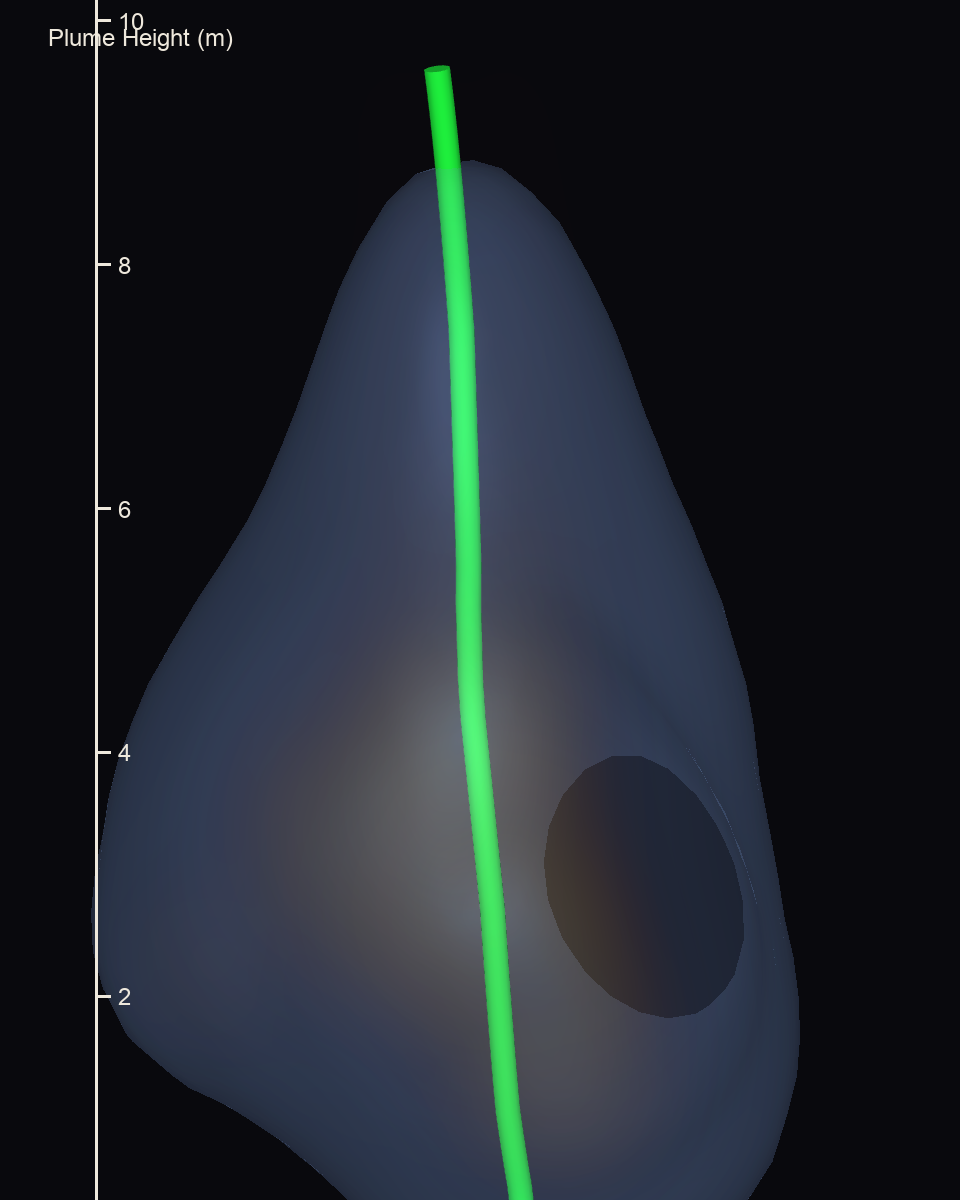
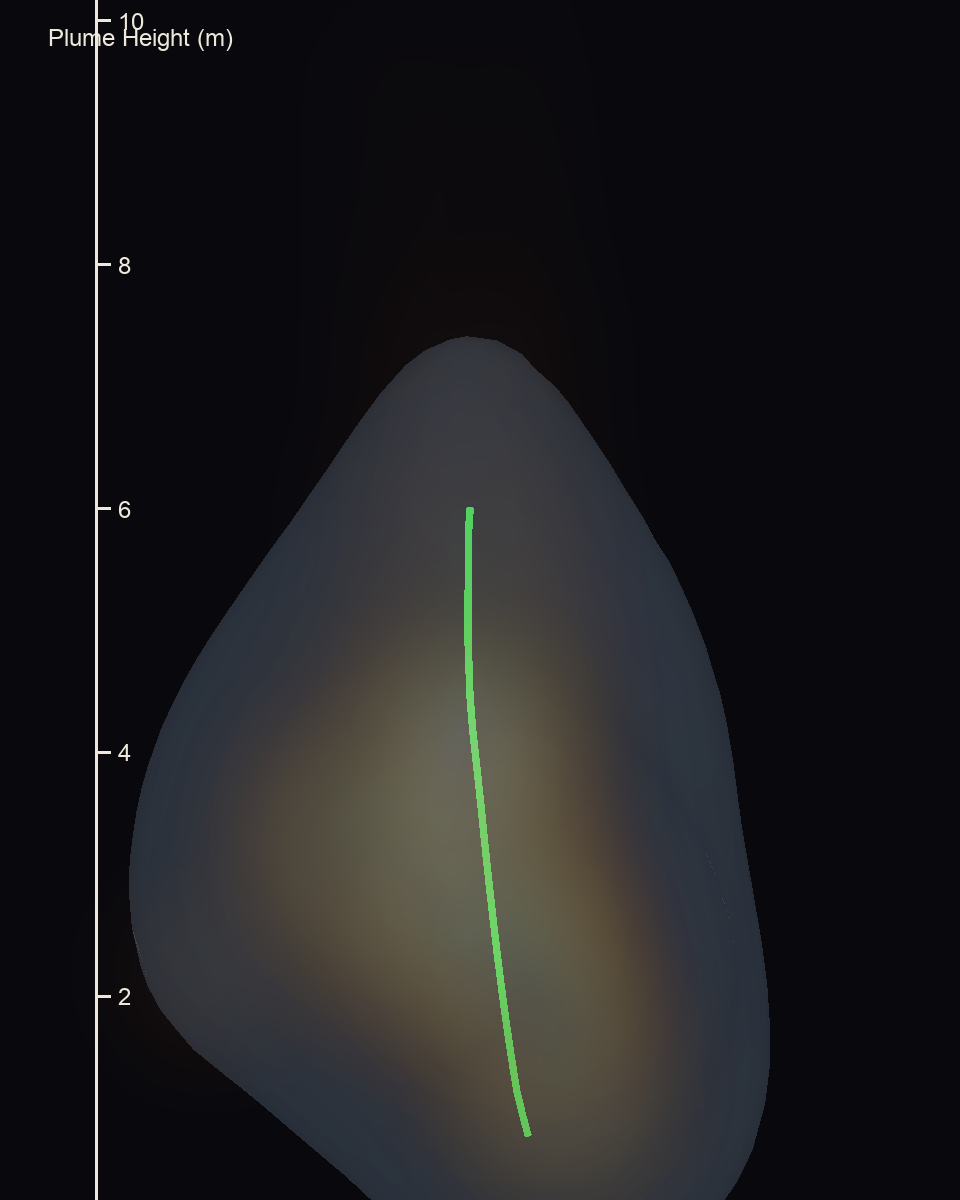
PlumeViz figures: close the gap on the paper's look
Four defects stood between these figures and the paper's, and each was
diagnosed by rendering the layers in isolation and looking rather than by
reading the code.

* **The dark disc was a hole in the isosurface.**  Where the smoothed field
  dips back below the isovalue the shell opens up, and what showed through
  read as a hard-edged black ellipse sitting inside the plume.  vtkFillHoles
  closed it (28 -> 0 boundary edges) but left a flat cap, and a flat cap
  shades as a uniform disc -- the artefact survived.  Smoothing the cap did
  not help either, because the real cause is deeper: at a *low* isovalue the
  shell folds and self-overlaps, and that only stops being visible once the
  shell is convex.  Measured clean at iso_fraction 0.15, faint at 0.05, and
  the default is now 0.028, which is the tightest level that still wraps the
  plume without folding.  FillHoles is kept as a safety net.

* **The golden volume was nearly invisible.**  plume_gold started at
  near-black, so the faint rising column rendered black-on-black and the
  core was a pale smear.  The ramp now runs deep amber -> orange -> gold ->
  bright gold -> white hot with a *warm* floor, and opacity_power came down
  from 1.7 so the low end is not crushed.  The core is now the subject.

* **The centreline was a fat opaque stripe** glued to the picture -- and it
  ran the full height of the frame, including well outside the plume.
[…]

Changed region(s): [[0.0938, 0.0308, 0.8438, 1.0], [0.3438, 0.8325, 0.4688, 0.925], [0.3125, 0.9558, 0.4062, 1.0]]

diff --git a/examples/demo_plumeviz_fig3.py b/examples/demo_plumeviz_fig3.py
@@ -65,11 +65,13 @@ def register_plume_colormaps():
     from matplotlib.colors import LinearSegmentedColormap
     if "plume_gold" not in matplotlib.colormaps():
         matplotlib.colormaps.register(LinearSegmentedColormap.from_list("plume_gold", [
-            (0.00, (0.015, 0.010, 0.045)),  # cool near-black shadow
-            (0.18, (0.28, 0.04, 0.13)),     # ember
-            (0.45, (0.86, 0.30, 0.05)),     # orange
-            (0.72, (1.00, 0.74, 0.14)),     # gold
-            (1.00, (1.00, 0.98, 0.90)),     # white-hot core
+            (0.00, (0.16, 0.05, 0.02)),     # dark amber -- a warm floor, so the
+            #    faint rising column glows instead of vanishing
+            (0.14, (0.34, 0.09, 0.02)),    # deep amber
+            (0.38, (0.78, 0.32, 0.04)),     # orange
+            (0.58, (1.00, 0.66, 0.08)),     # gold
+            (0.78, (1.00, 0.90, 0.45)),     # bright gold
+            (1.00, (1.00, 1.00, 0.95)),     # white hot
         ]))
     if "plume_gray" not in matplotlib.colormaps():
         matplotlib.colormaps.register(LinearSegmentedColormap.from_list("plume_gray", [
@@ -177,9 +179,9 @@ def build_scene(log_display, sm_iso, spacing, origin, shape, args):
         prop.SetGradientOpacity(gop)
     prop.ShadeOn()
     prop.SetInterpolationTypeToLinear()
-    prop.SetAmbient(0.25)
-    prop.SetDiffuse(0.95)
-    prop.SetSpecular(0.55)
+    prop.SetAmbient(0.45)
+    prop.SetDiffuse(0.80)
+    prop.SetSpecular(0.45)
     prop.SetSpecularPower(48)
 
     volume = vtk.vtkVolume()
@@ -195,18 +197,40 @@ def build_scene(log_display, sm_iso, spacing, origin, shape, args):
         contour.SetInputData(iso_img)
         contour.ComputeNormalsOn()
         contour.SetValue(0, iso_val)
+        # Fill the holes.  Where the smoothed field dips back below the
+        # isovalue the shell opens up and you see the background through it --
+        # one such hole rendered as a hard-edged dark disc sitting inside the
+        # plume, which read as an artefact rather than as structure.
+        fill = vtk.vtkFillHolesFilter()
+        fill.SetInputConnection(contour.GetOutputPort())
+        fill.SetHoleSize(1000.0)
+        # ...and then relax it.  Filling a hole leaves a flat cap, and a flat
+        # cap shades as a uniform ellipse -- which is what that hard-edged dark
+        # disc on the plume actually was.  Smoothing rounds the cap back into
+        # the shell.
+        relax = vtk.vtkSmoothPolyDataFilter()
+        relax.SetInputConnection(fill.GetOutputPort())
+        relax.SetNumberOfIterations(80)
+        relax.SetFeatureAngle(45.0)
+        relax.SetEdgeAngle(15.0)
+        relax.SetFeatureEdgeSmoothing(1)
+        relax.BoundarySmoothingOff()
+        relax.Update()
         cmap = vtk.vtkPolyDataMapper()
-        cmap.SetInputConnection(contour.GetOutputPort())
+        cmap.SetInputConnection(relax.GetOutputPort())
         cmap.ScalarVisibilityOff()
         iso = vtk.vtkActor()
         iso.SetMapper(cmap)
         p = iso.GetProperty()
         p.SetColor(*args.iso_color)
         p.SetOpacity(args.iso_opacity)
-        p.SetAmbient(0.6)
-        p.SetDiffuse(0.6)
-        p.SetSpecular(0.5)
-        p.SetSpecularPower(40)
+        # Flat and barely specular: a translucent veil.  A strong specular
+        # highlight turns the shell into a moulded plastic blob and it swallows
+        # the volume behind it.
+        p.SetAmbient(0.85)
+        p.SetDiffuse(0.35)
+        p.SetSpecular(0.12)
+        p.SetSpecularPower(30)
         actors.append(iso)
 
     # 3. Green plume centreline ----------------------------------------------
@@ -235,8 +259,11 @@ def build_scene(log_display, sm_iso, spacing, origin, shape, args):
             centre = vtk.vtkActor()
             centre.SetMapper(tm)
             centre.GetProperty().SetColor(*args.centerline_color)
-            centre.GetProperty().SetAmbient(0.6)
-            centre.GetProperty().SetDiffuse(0.6)
+            # Unlit and slightly transparent: a bright opaque tube reads as a
+            # stripe glued to the picture rather than as the plume's axis.
+            centre.GetProperty().SetAmbient(1.0)
+            centre.GetProperty().SetDiffuse(0.0)
+            centre.GetProperty().SetOpacity(0.55)
             actors.append(centre)
 
     bounds = (origin[0], origin[0] + (shape[0] - 1) * spacing[0],
@@ -478,32 +505,32 @@ def main():
     p.add_argument("--sigma-iso", type=float, default=2.2, help="smoothing for envelope + centreline")
     p.add_argument("--sigma-display", type=float, default=1.0, help="smoothing for the volume")
     p.add_argument("--prune-frac", type=float, default=0.30, help="drop components below this frac of the largest")
-    p.add_argument("--opacity-power", type=float, default=1.7,
+    p.add_argument("--opacity-power", type=float, default=1.35,
                    help=">1 keeps the pale interior transparent and reserves "
                         "opacity for the dense core")
-    p.add_argument("--max-opacity", type=float, default=0.95)
+    p.add_argument("--max-opacity", type=float, default=0.98)
     p.add_argument("--no-gradient-opacity", action="store_true",
                    help="scalar opacity only (gradient opacity is what keeps "
                         "the volume from reading as fog)")
 
-    p.add_argument("--iso-fraction", type=float, default=0.010,
+    p.add_argument("--iso-fraction", type=float, default=0.028,
                    help="envelope level as a fraction of the smoothed field max")
-    p.add_argument("--iso-color", nargs=3, type=float, default=[0.55, 0.70, 0.97])
-    p.add_argument("--iso-opacity", type=float, default=0.17)
+    p.add_argument("--iso-color", nargs=3, type=float, default=[0.70, 0.83, 0.97])
+    p.add_argument("--iso-opacity", type=float, default=0.11)
     p.add_argument("--no-isosurface", action="store_true")
 
-    p.add_argument("--centerline-threshold", type=float, default=0.002,
+    p.add_argument("--centerline-threshold", type=float, default=0.035,
                    help="threshold as a fraction of the smoothed field max")
     p.add_argument("--centerline-window", type=int, default=21)
-    p.add_argument("--centerline-radius", type=float, default=0.08)
-    p.add_argument("--centerline-color", nargs=3, type=float, default=[0.10, 0.80, 0.20])
+    p.add_argument("--centerline-radius", type=float, default=0.022)
+    p.add_argument("--centerline-color", nargs=3, type=float, default=[0.25, 1.00, 0.35])
     p.add_argument("--no-centerline", action="store_true")
 
     p.add_argument("--background", nargs=3, type=float, default=[0.035, 0.035, 0.050],
                    help="near-black by default so the gold reads at full "
                         "contrast; pass 0.52 0.52 0.52 for the paper's grey")
     p.add_argument("--size", nargs=2, type=int, default=[960, 1200])
-    p.add_argument("--zoom", type=float, default=3.0,
+    p.add_argument("--zoom", type=float, default=3.15,
                    help="camera zoom after ResetCamera; the plume is a thin "
                         "column in a mostly empty box, so fit the plume")
     p.add_argument("--no-axis", action="store_true")
